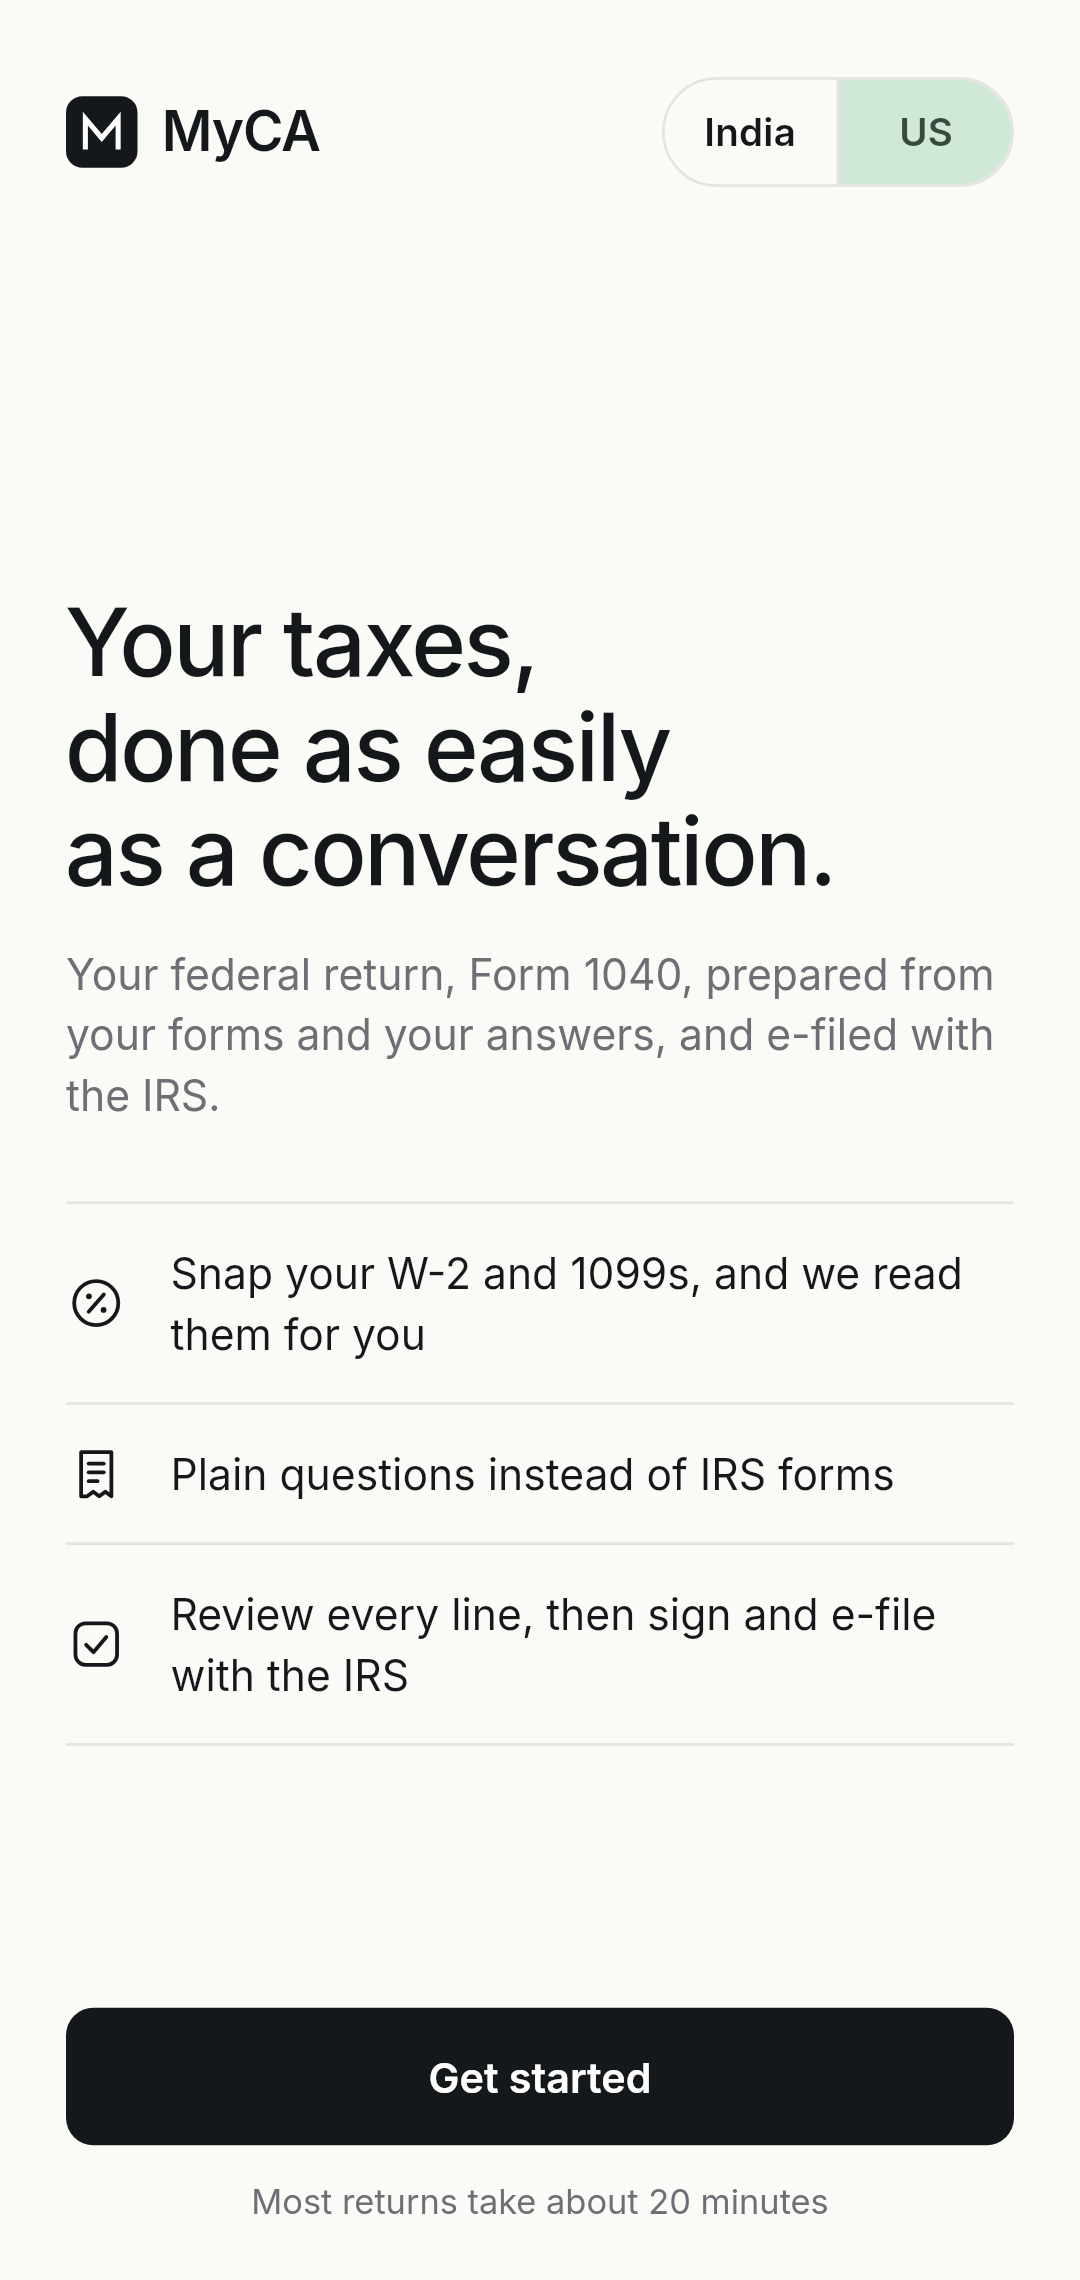
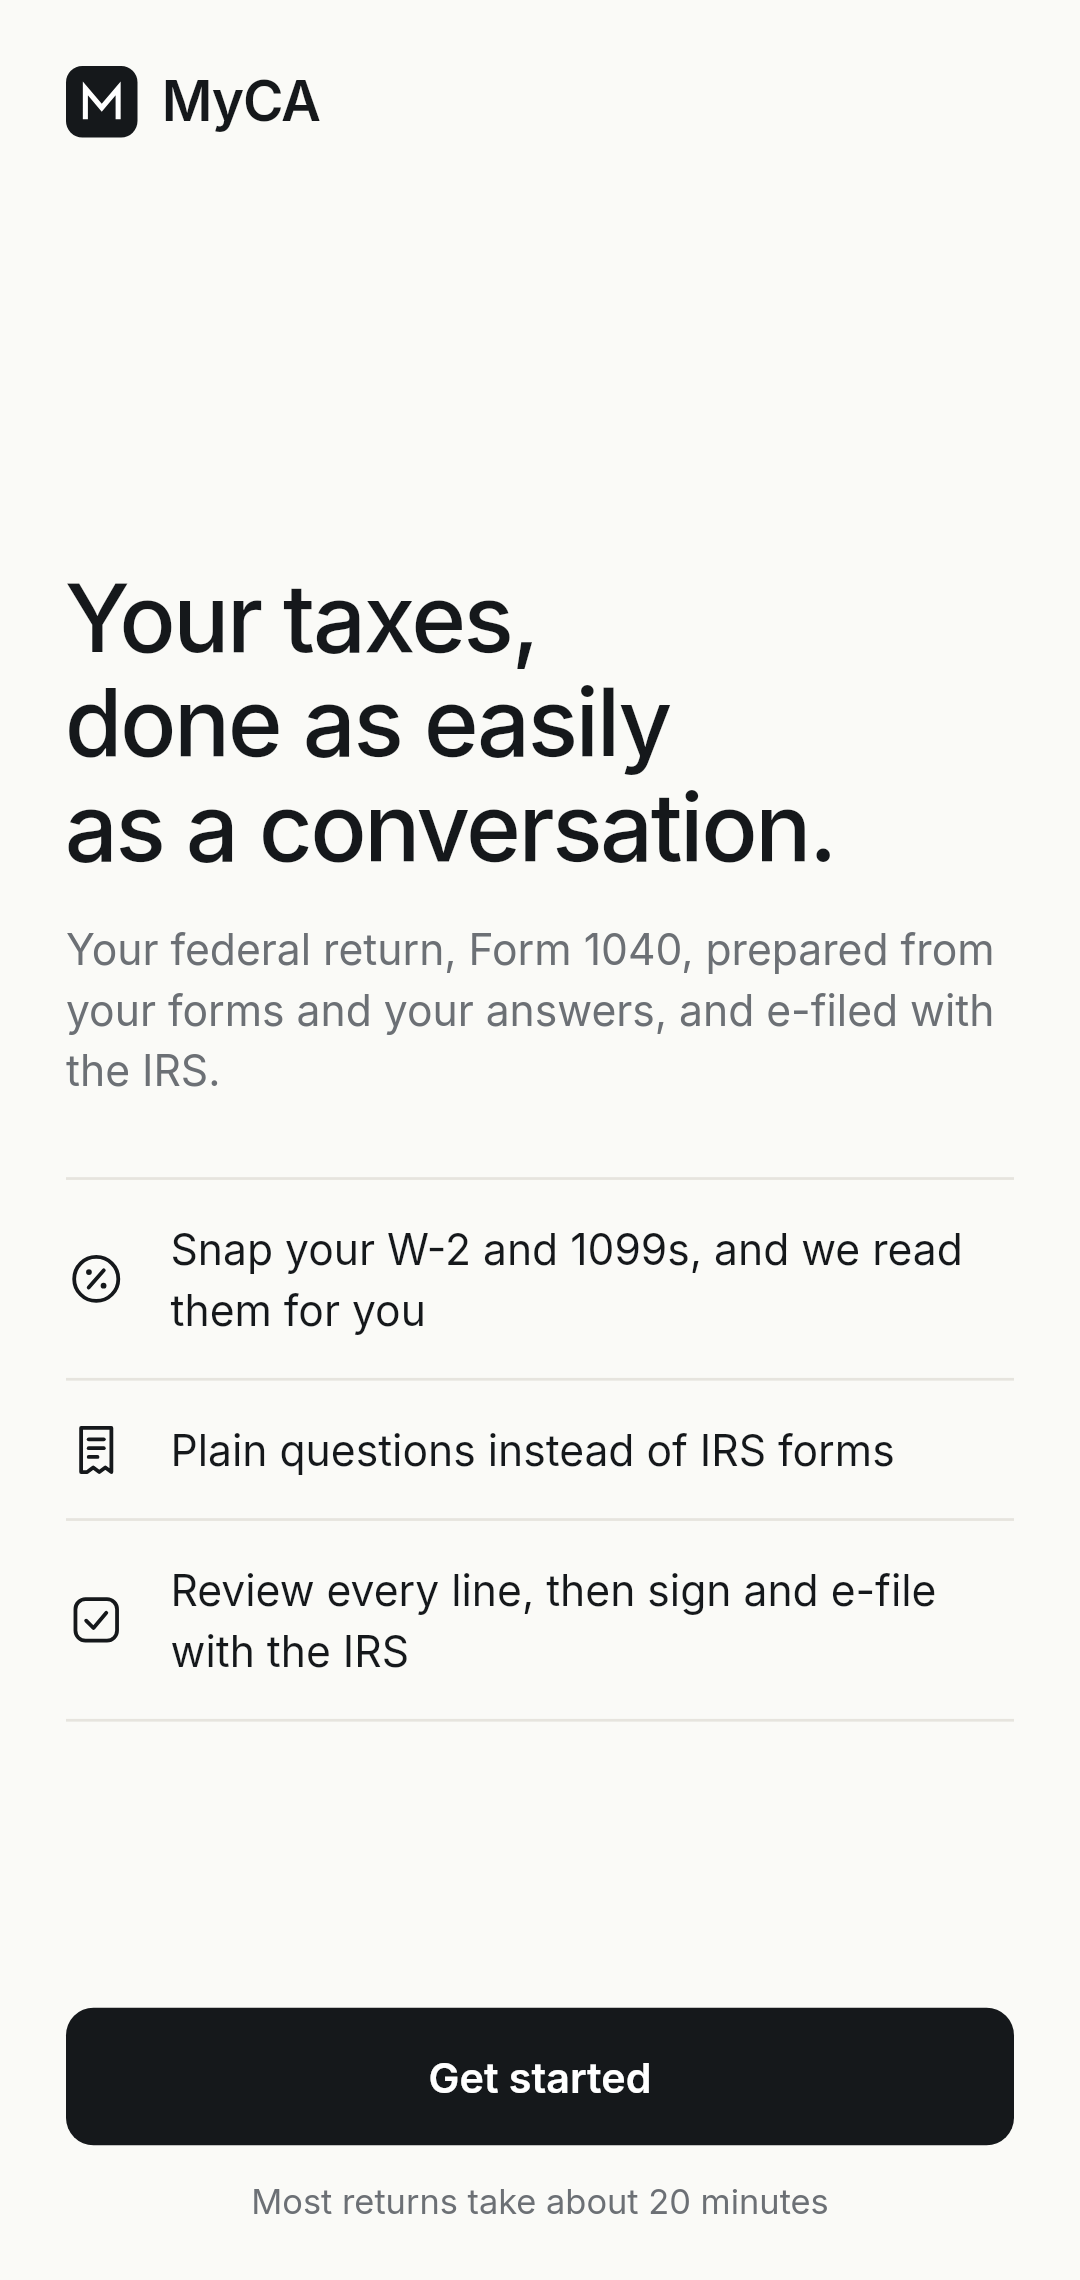
Make MyCA US and MyCA India two separate store apps
- Android flavors india (com.mldynamic.myca) and us (com.mldynamic.myca.us);
  the edition comes from the flavor, so neither app can switch country
- Remove the region switch from welcome, setup and saved settings
- CI builds and checksums both apps; uploads the US bundle when PLAY_US_TRACK is set
- US payments are verified against the US Play package (MYCA_PLAY_PACKAGE_US)
- Docs: build commands per flavor, owner steps for the US Play app

Tests: cloud 357/357 pass; flutter analyze clean, flutter test 613 pass.

Claude-Session: https://claude.ai/code/session_0174TLetaQdj8mae1wPsVW7h

diff --git a/mobile/test/us_return_test.dart b/mobile/test/us_return_test.dart
@@ -5,6 +5,7 @@ import 'package:flutter/material.dart';
 import 'package:flutter_test/flutter_test.dart';
 import 'package:myca/api/models.dart';
 import 'package:myca/api/myca_api.dart';
+import 'package:myca/app_config.dart';
 import 'package:myca/app_services.dart';
 import 'package:myca/app_state.dart';
 import 'package:myca/billing/store_billing.dart';
@@ -219,8 +220,9 @@ class UsFakeApi implements MycaApi {
 
 AppState usState(UsFakeApi api, {PickAnyFile? pickAny, List<(String, Uint8List)>? shared}) => AppState(
   api: api,
-  store: MemoryOnboardingStore(isWelcomed: true, isMigrated: true, savedRegion: 'US'),
+  store: MemoryOnboardingStore(isWelcomed: true, isMigrated: true),
   pickTextFile: (_) async => null,
+  edition: 'US',
   pickAnyFile: pickAny ?? () async => null,
   pdf: PdfActions(share: (name, bytes) async {
     shared?.add((name, bytes));
@@ -293,27 +295,33 @@ void main() {
     expect(currentTaxYear(DateTime(2026, 11, 11)), 2026);
   });
 
-  testWidgets('the welcome screen offers India or the US, and the US copy talks about the 1040', (tester) async {
-    final store = MemoryOnboardingStore();
-    final state = AppState(api: UsFakeApi(), store: store, pickTextFile: (_) async => null, deviceCountry: 'IN');
+  test('the store build decides the country: the us flavor is the US app, anything else is India', () {
+    expect(editionFor('us', defined: ''), 'US');
+    expect(editionFor('india', defined: ''), 'IN');
+    expect(editionFor(null, defined: ''), 'IN');
+    expect(editionFor(null, defined: 'US'), 'US');
+    expect(AppState(api: UsFakeApi(), store: MemoryOnboardingStore(), pickTextFile: (_) async => null, edition: 'us').edition, 'US');
+  });
+
+  testWidgets('the US app opens on the US welcome and offers no switch to India', (tester) async {
+    final state = AppState(api: UsFakeApi(), store: MemoryOnboardingStore(), pickTextFile: (_) async => null, edition: 'US');
     await tester.pumpWidget(MycaApp(state: state));
-    await tester.pumpAndSettle();
-    expect(find.textContaining('Your books'), findsOneWidget);
-    await tester.tap(find.text('US'));
     await tester.pumpAndSettle();
     expect(find.textContaining('Your taxes'), findsOneWidget);
     expect(find.textContaining('W-2'), findsOneWidget);
-    expect(store.savedRegion, 'US');
-  });
-
-  testWidgets('a phone set to the US starts on the US welcome', (tester) async {
-    final state = AppState(api: UsFakeApi(), store: MemoryOnboardingStore(), pickTextFile: (_) async => null, deviceCountry: 'US');
-    await tester.pumpWidget(MycaApp(state: state));
-    await tester.pumpAndSettle();
-    expect(find.textContaining('Your taxes'), findsOneWidget);
+    expect(find.text('India'), findsNothing);
     await tester.tap(find.text('Get started'));
     await tester.pumpAndSettle();
-    expect((state.store as MemoryOnboardingStore).savedRegion, 'US');
+    expect(state.welcomed, isTrue);
+  });
+
+  testWidgets('the India app opens on the India welcome with no US option', (tester) async {
+    final state = AppState(api: UsFakeApi(), store: MemoryOnboardingStore(), pickTextFile: (_) async => null);
+    await tester.pumpWidget(MycaApp(state: state));
+    await tester.pumpAndSettle();
+    expect(find.textContaining('Your books'), findsOneWidget);
+    expect(find.text('US'), findsNothing);
+    expect(find.textContaining('1040'), findsNothing);
   });
 
   testWidgets('hosted US first run: a personal return makes a household and opens the 1040 hub', (tester) async {
@@ -323,9 +331,10 @@ void main() {
     await session.setName('Jordan');
     final state = AppState(
       cloud: sessionOn(cloud, tokens),
-      store: MemoryOnboardingStore(isWelcomed: true, savedRegion: 'US'),
+      store: MemoryOnboardingStore(isWelcomed: true),
       pickTextFile: (_) async => null,
       now: () => DateTime(2026, 3, 2, 10),
+      edition: 'US',
     );
     await tester.pumpWidget(MycaApp(state: state));
     await tester.pumpAndSettle();
@@ -342,23 +351,15 @@ void main() {
     expect(find.text('Where are your books today?'), findsNothing);
   });
 
-  testWidgets('hosted US: a business owner gets a US business, and India is one tap away', (tester) async {
+  testWidgets('hosted US: a business owner gets US business books', (tester) async {
     final cloud = FakeCloud();
     final tokens = MemoryTokenStore();
     final session = await signedIn(cloud, tokens);
     await session.setName('Luna');
-    final store = MemoryOnboardingStore(isWelcomed: true, savedRegion: 'US');
-    final state = AppState(cloud: sessionOn(cloud, tokens), store: store, pickTextFile: (_) async => null, now: () => DateTime(2026, 3, 2, 10));
+    final state = AppState(cloud: sessionOn(cloud, tokens), store: MemoryOnboardingStore(isWelcomed: true), pickTextFile: (_) async => null, now: () => DateTime(2026, 3, 2, 10), edition: 'US');
     await tester.pumpWidget(MycaApp(state: state));
     await tester.pumpAndSettle();
-    await tester.tap(find.byKey(const Key('usSetup.business')));
-    await tester.pumpAndSettle();
-    await tester.tap(find.byKey(const Key('usSetup.india')));
-    await tester.pumpAndSettle();
-    expect(find.text('Tell us about the business'), findsOneWidget);
-    expect(store.savedRegion, 'IN');
-    await tester.tap(find.byKey(const Key('setup.us')));
-    await tester.pumpAndSettle();
+    expect(find.text('Filing in India instead?'), findsNothing);
     await tester.tap(find.text('Keep books for my US business'));
     await tester.pumpAndSettle();
     await tester.enterText(find.byKey(const Key('usSetup.business')), 'Luna Bakery LLC');
@@ -650,9 +651,10 @@ void main() {
     await signedIn(cloud, tokens);
     final state = AppState(
       cloud: sessionOn(cloud, tokens),
-      store: MemoryOnboardingStore(isWelcomed: true, savedRegion: 'US'),
+      store: MemoryOnboardingStore(isWelcomed: true),
       pickTextFile: (_) async => null,
       now: () => DateTime(2026, 3, 2, 10),
+      edition: 'US',
     );
     await tester.pumpWidget(MycaApp(state: state));
     await tester.pumpAndSettle();

diff --git a/mobile/lib/screens/welcome_screen.dart b/mobile/lib/screens/welcome_screen.dart
@@ -24,7 +24,7 @@ class WelcomeScreen extends StatelessWidget {
   Widget build(BuildContext context) {
     final text = Theme.of(context).textTheme;
     final state = AppScope.of(context);
-    final us = state.chosenRegion == 'US';
+    final us = state.edition == 'US';
     final points = us ? _usPoints : _points;
     return Scaffold(
       body: SafeArea(
@@ -33,22 +33,7 @@ class WelcomeScreen extends StatelessWidget {
           child: Column(
             crossAxisAlignment: CrossAxisAlignment.start,
             children: [
-              Row(
-                children: [
-                  const Wordmark(),
-                  const Spacer(),
-                  SegmentedButton<String>(
-                    key: const Key('welcome.region'),
-                    showSelectedIcon: false,
-                    segments: const [
-                      ButtonSegment(value: 'IN', label: Text('India')),
-                      ButtonSegment(value: 'US', label: Text('US')),
-                    ],
-                    selected: {state.chosenRegion},
-                    onSelectionChanged: (picked) => state.chooseRegion(picked.first),
-                  ),
-                ],
-              ),
+              const Wordmark(),
               const Spacer(flex: 3),
               Text(
                 us ? 'Your taxes,\ndone as easily\nas a conversation.' : 'Your books,\nkept as easily\nas a conversation.',
@@ -80,10 +65,7 @@ class WelcomeScreen extends StatelessWidget {
               SizedBox(
                 width: double.infinity,
                 child: FilledButton(
-                  onPressed: () async {
-                    await state.chooseRegion(state.chosenRegion);
-                    await state.finishWelcome();
-                  },
+                  onPressed: state.finishWelcome,
                   child: const Text('Get started'),
                 ),
               ),

diff --git a/mobile/lib/app_state.dart b/mobile/lib/app_state.dart
@@ -46,13 +46,13 @@ class AppState extends ChangeNotifier {
     this.oidc,
     this.plaidLink = const NoPlaidLink(),
     this.openLink = _cannotOpen,
-    this.deviceCountry = '',
+    String edition = 'IN',
     this.installationId = sessionInstallationId,
-  }) : api = api ?? cloud!.api;
+  })  : api = api ?? cloud!.api,
+        edition = edition.toUpperCase() == 'US' ? 'US' : 'IN';
 
-  final String deviceCountry;
+  final String edition;
   final Future<String> Function() installationId;
-  String region = '';
 
   final MycaApi api;
   final CloudSession? cloud;
@@ -116,20 +116,9 @@ class AppState extends ChangeNotifier {
     return file;
   }
 
-  String get chosenRegion => region == 'US' || region == 'IN' ? region : (deviceCountry.toUpperCase() == 'US' ? 'US' : 'IN');
-
   bool get household => snapshot?.company.household ?? false;
 
-  Future<void> chooseRegion(String value) async {
-    final code = value.toUpperCase() == 'US' ? 'US' : 'IN';
-    if (region == code) return;
-    region = code;
-    await store.setRegion(code);
-    notifyListeners();
-  }
-
   Future<void> start() async {
-    region = await store.region();
     welcomed = await store.welcomed();
     migrated = await store.migrated();
     await cloud?.restore();

diff --git a/mobile/lib/screens/business_setup_screen.dart b/mobile/lib/screens/business_setup_screen.dart
@@ -97,7 +97,7 @@ class _BusinessSetupScreenState extends State<BusinessSetupScreen> {
   @override
   Widget build(BuildContext context) {
     final text = Theme.of(context).textTheme;
-    if (AppScope.of(context).chosenRegion == 'US') return const UsSetupScreen();
+    if (AppScope.of(context).edition == 'US') return const UsSetupScreen();
     return Scaffold(
       appBar: AppBar(
         automaticallyImplyLeading: false,
@@ -206,14 +206,6 @@ class _BusinessSetupScreenState extends State<BusinessSetupScreen> {
             Text(
               'A made-up trader with three months of invoices, purchases and expenses. It cannot reach the GST portal, banks or other people, and you can delete it any time.',
               style: text.bodySmall?.copyWith(color: Palette.muted),
-            ),
-            const SizedBox(height: 12),
-            Center(
-              child: TextButton(
-                key: const Key('setup.us'),
-                onPressed: () => AppScope.of(context).chooseRegion('US'),
-                child: const Text('Filing taxes in the United States?'),
-              ),
             ),
           ],
         ),

diff --git a/mobile/lib/screens/privacy_notice_screen.dart b/mobile/lib/screens/privacy_notice_screen.dart
@@ -21,7 +21,7 @@ class _PrivacyNoticeScreenState extends State<PrivacyNoticeScreen> {
   @override
   void didChangeDependencies() {
     super.didChangeDependencies();
-    _notice ??= AppScope.of(context).cloud!.privacyNotice(region: AppScope.of(context).chosenRegion);
+    _notice ??= AppScope.of(context).cloud!.privacyNotice(region: AppScope.of(context).edition);
   }
 
   Future<void> _agree(PrivacyNotice notice) async {
@@ -38,7 +38,7 @@ class _PrivacyNoticeScreenState extends State<PrivacyNoticeScreen> {
       if (mounted) {
         setState(() {
           _error = err.message;
-          _notice = state.cloud!.privacyNotice(region: state.chosenRegion);
+          _notice = state.cloud!.privacyNotice(region: state.edition);
         });
       }
     } finally {
@@ -48,7 +48,7 @@ class _PrivacyNoticeScreenState extends State<PrivacyNoticeScreen> {
 
   void _retry() {
     setState(() {
-      _notice = AppScope.of(context).cloud!.privacyNotice(region: AppScope.of(context).chosenRegion);
+      _notice = AppScope.of(context).cloud!.privacyNotice(region: AppScope.of(context).edition);
     });
   }
 

diff --git a/mobile/lib/app_services.dart b/mobile/lib/app_services.dart
@@ -14,15 +14,12 @@ abstract class OnboardingStore {
   Future<void> markMigrated();
   Future<bool> lockEnabled();
   Future<void> setLockEnabled(bool enabled);
-  Future<String> region();
-  Future<void> setRegion(String region);
 }
 
 class DeviceOnboardingStore implements OnboardingStore {
   static const _welcomed = 'onboarding.welcomed';
   static const _migrated = 'onboarding.migrated';
   static const _lock = 'lock.enabled';
-  static const _region = 'onboarding.region';
 
   @override
   Future<bool> welcomed() async =>
@@ -47,14 +44,6 @@ class DeviceOnboardingStore implements OnboardingStore {
   @override
   Future<void> setLockEnabled(bool enabled) async =>
       (await SharedPreferences.getInstance()).setBool(_lock, enabled);
-
-  @override
-  Future<String> region() async =>
-      (await SharedPreferences.getInstance()).getString(_region) ?? '';
-
-  @override
-  Future<void> setRegion(String region) async =>
-      (await SharedPreferences.getInstance()).setString(_region, region);
 }
 
 class PickedText {

diff --git a/mobile/lib/screens/us/us_setup_screen.dart b/mobile/lib/screens/us/us_setup_screen.dart
@@ -175,14 +175,6 @@ class _UsSetupScreenState extends State<UsSetupScreen> {
               'Your return is encrypted on our servers, your Social Security number is sealed separately and never shown in full, and nothing is sent to the IRS until you sign.',
               style: text.bodySmall?.copyWith(color: Palette.muted),
             ),
-            const SizedBox(height: 12),
-            Center(
-              child: TextButton(
-                key: const Key('usSetup.india'),
-                onPressed: () => state.chooseRegion('IN'),
-                child: const Text('Filing in India instead?'),
-              ),
-            ),
           ],
         ),
       ),

diff --git a/mobile/test/fake_api.dart b/mobile/test/fake_api.dart
@@ -13,10 +13,8 @@ class MemoryOnboardingStore implements OnboardingStore {
     this.isWelcomed = false,
     this.isMigrated = false,
     this.isLockEnabled = true,
-    this.savedRegion = '',
   });
 
-  String savedRegion;
   bool isWelcomed;
   bool isMigrated;
   bool isLockEnabled;
@@ -38,12 +36,6 @@ class MemoryOnboardingStore implements OnboardingStore {
 
   @override
   Future<void> markMigrated() async => isMigrated = true;
-
-  @override
-  Future<String> region() async => savedRegion;
-
-  @override
-  Future<void> setRegion(String region) async => savedRegion = region;
 }
 
 AppState testState(

diff --git a/mobile/lib/screens/phone_sign_in_screen.dart b/mobile/lib/screens/phone_sign_in_screen.dart
@@ -120,7 +120,7 @@ class _PhoneSignInScreenState extends State<PhoneSignInScreen> {
     final googleOn = state.google != null && (_methods?.google ?? true);
     final firmOn = state.oidc != null && (_methods?.oidc ?? false);
     final firmHost = _methods?.oidcIssuerHost ?? '';
-    final phoneOn = (_methods?.phone ?? true) && !(state.chosenRegion == 'US' && (googleOn || firmOn));
+    final phoneOn = (_methods?.phone ?? true) && !(state.edition == 'US' && (googleOn || firmOn));
     final phoneOnly = phoneOn && !googleOn && !firmOn;
     return Scaffold(
       body: SafeArea(

diff --git a/mobile/tool/us_screenshots_test.dart b/mobile/tool/us_screenshots_test.dart
@@ -22,7 +22,7 @@ void main() {
 
   testWidgets('US filer screens', (tester) async {
     await phone(tester);
-    final welcome = AppState(api: UsFakeApi(), store: MemoryOnboardingStore(), pickTextFile: (_) async => null, deviceCountry: 'US');
+    final welcome = AppState(api: UsFakeApi(), store: MemoryOnboardingStore(), pickTextFile: (_) async => null, edition: 'US');
     await tester.pumpWidget(MycaApp(state: welcome));
     await shot(tester, 'us_01_welcome');
 

diff --git a/mobile/lib/main.dart b/mobile/lib/main.dart
@@ -88,7 +88,7 @@ void main() {
             : null,
         plaidLink: const DevicePlaidLink(),
         openLink: (url) => launchUrl(url, mode: LaunchMode.externalApplication),
-        deviceCountry: PlatformDispatcher.instance.locale.countryCode ?? '',
+        edition: editionFor(appFlavor),
         installationId: deviceInstallationId,
       ),
     ),

diff --git a/mobile/lib/app_config.dart b/mobile/lib/app_config.dart
@@ -26,3 +26,8 @@ class AppConfig {
 
   bool get hosted => cloudUrl.isNotEmpty;
 }
+
+String editionFor(String? flavor, {String defined = const String.fromEnvironment('MYCA_EDITION')}) {
+  final pick = (defined.isNotEmpty ? defined : flavor ?? '').toUpperCase();
+  return pick == 'US' ? 'US' : 'IN';
+}
